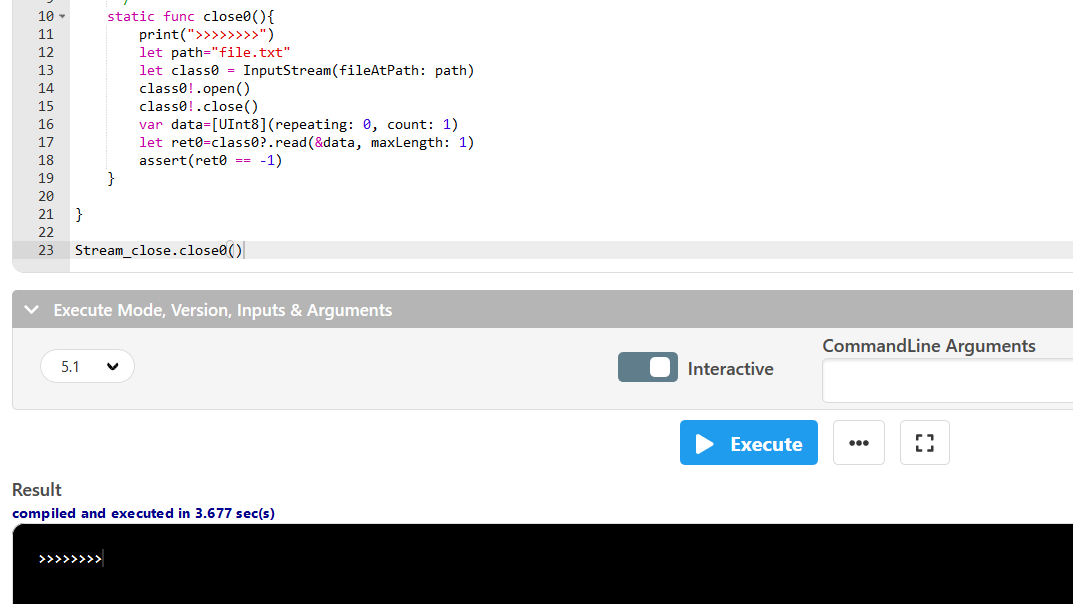
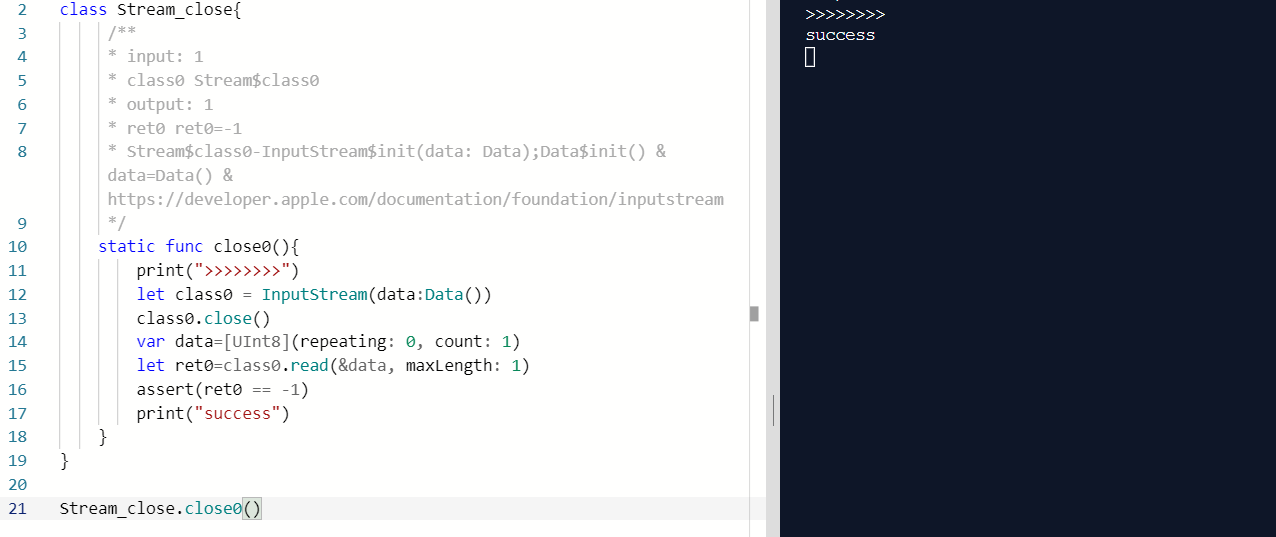
review

diff --git a/MG1933089/swift/NSString_init_String_Any_CVaListPointer__String_write_TextOutputStream.swift b/MG1933089/swift/NSString_init_String_Any_CVaListPointer__String_write_TextOutputStream.swift
@@ -1,19 +1,19 @@
 /***
  * @author: MG1933089 袁新雨
- *  @className: NSString_init_String_Any_CVaListPointer$NSString__String_write_TextOutputStream
+ *  @className: NSString_init_String_Any_CVaListPointer__String_write_TextOutputStream
  *  @apiSignature: NSString$convenience init(format: String, locale: Any?, arguments argList: CVaListPointer) -> NSString;String$func write<Target>(to target: inout Target) where Target : TextOutputStream
  *  @description: Test swift api NSString$init(format: String, locale: Any?, arguments argList: CVaListPointer);String$write<Target>(to target: inout Target) where Target : TextOutputStream
  *  @Map: java.io.PrintStream$public PrintStream format(String format, Object... args)
  */
 import Foundation
-class NSString_init_String_Any_CVaListPointer$NSString__String_write_TextOutputStream{
+class NSString_init_String_Any_CVaListPointer__String_write_TextOutputStream{
     /**
      *input: 4
      *class0 NSString$class0
      *class1 String$class1
      *format format="%.2f"
      *locale Any$locale
-     *arguments arguments=[0.123]
+     *arguments CVaListPointer$arguments
      *target TextOutputStream$target
      *ouput: 1
      *ret0 ret0="0.12"
@@ -35,4 +35,4 @@ class NSString_init_String_Any_CVaListPointer$NSString__String_write_TextOutputS
         print(target) 
     }
 }
-NSString_init_String_Any_CVaListPointer$NSString__String_write_TextOutputStream.init_write0()
+NSString_init_String_Any_CVaListPointer__String_write_TextOutputStream.init_write0()

diff --git a/MG1933089/swift/NSString_init_String_CVaListPointer__String_write_TextOutputStream.swift b/MG1933089/swift/NSString_init_String_CVaListPointer__String_write_TextOutputStream.swift
@@ -1,18 +1,18 @@
 /***
  * @author: MG1933089 袁新雨
- *  @className: NSString_init_format_CVaListPointer$NSString__String_write_TextOutputStream
+ *  @className: NSString_init_String_CVaListPointer__String_write_TextOutputStream
  *  @apiSignature: NSString$convenience init(format: String, arguments argList: CVaListPointer) -> NSString;String$func write<Target>(to target: inout Target) where Target : TextOutputStream
  *  @description: Test swift api SString$init(format: String, arguments argList: CVaListPointer);String$write<Target>(to target: inout Target) where Target : TextOutputStream
  *  @Map: java.io.PrintStream$public PrintStream format(String format, Object... args)
  */
 import Foundation
-class NSString_init_format_CVaListPointer$NSString__String_write_TextOutputStream{
+class NSString_init_String_CVaListPointer__String_write_TextOutputStream{
     /**
      *input : 3
-     *class0 class0$NSString
-     *class1 class1$String
+     *class0 NSString$class0
+     *class1 String$class1
      *format format="%.2f"
-     *arguments arguments=[0.123]
+     *arguments CVaListPointer$arguments
      *target target=""
      *ouput : 1
      *ret0 ret0="0.12"
@@ -33,4 +33,4 @@ class NSString_init_format_CVaListPointer$NSString__String_write_TextOutputStrea
         print(target) 
     }
 }
-NSString_init_format_CVaListPointer$NSString__String_write_TextOutputStream.init_write0()
+NSString_init_String_CVaListPointer__String_write_TextOutputStream.init_write0()

diff --git a/MG1933089/swift/NSString_init_String_Any_CVaListPointer__TextOutputStream_write_String.swift b/MG1933089/swift/NSString_init_String_Any_CVaListPointer__TextOutputStream_write_String.swift
@@ -1,19 +1,19 @@
 /***
  * @author: MG1933089 袁新雨
- *  @className: NSString_init_String_Any_CVaListPointer$NSString__TextOutputStream_write_String
+ *  @className: NSString_init_String_Any_CVaListPointer__TextOutputStream_write_String
  *  @apiSignature: NSString$convenience init(format: String, locale: Any?, arguments argList: CVaListPointer) -> NSString;TextOutputStream$mutating func write(_ string: String)
  *  @description: Test swift api SString$init(format: String, locale: Any?, arguments argList: CVaListPointer);TextOutputStream$write(_ string: String)
  *  @Map: java.io.PrintStream$public PrintStream format(String format, Object... args)
  */
 import Foundation
-class NSString_init_String_Any_CVaListPointer$NSString__TextOutputStream_write_String{
+class NSString_init_String_Any_CVaListPointer__TextOutputStream_write_String{
     /**
      *input : 4
      *class0 NSString$class0
      *class1 TextOutputStream$class1
      *format format="init_write0: %.2f"
      *locale Any$locale
-     *arguments arguments=[0.123]
+     *arguments CVaListPointer$arguments
      *string String$string
      *ouput : 1
      *ret0 ret0="0.12"
@@ -35,4 +35,4 @@ class NSString_init_String_Any_CVaListPointer$NSString__TextOutputStream_write_S
         print(class1) 
     }
 }
-NSString_init_String_Any_CVaListPointer$NSString__TextOutputStream_write_String.init_write0()
+NSString_init_String_Any_CVaListPointer__TextOutputStream_write_String.init_write0()

diff --git a/MG1933089/swift/NSString_init_String_CVaListPointer__TextOutputStream_write_String.swift b/MG1933089/swift/NSString_init_String_CVaListPointer__TextOutputStream_write_String.swift
@@ -1,18 +1,18 @@
 /***
  * @author: MG1933089 袁新雨
- *  @className: NSString_init_format_CVaListPointer$NSString__TextOutputStream_write_String
+ *  @className: NSString_init_String_CVaListPointer__TextOutputStream_write_String
  *  @apiSignature: NSString$convenience init(format: String, arguments argList: CVaListPointer) -> NSString;TextOutputStream$mutating func write(_ string: String)
  *  @description: Test swift api SString$init(format: String, arguments argList: CVaListPointer);TextOutputStream$write(_ string: String)
  *  @Map: java.io.PrintStream$public PrintStream format(String format, Object... args)
  */
 import Foundation
-class NSString_init_format_CVaListPointer$NSString__TextOutputStream_write_String{
+class NSString_init_String_CVaListPointer__TextOutputStream_write_String{
     /**
      *input : 3
      *class0 NSString$class0
      *class1 String$class1
      *format format="%.2f"
-     *arguments arguments=[0.123]
+     *arguments CVaListPointer$arguments
      *target TextOutputStream$target
      *ouput : 1
      *ret0 ret0="0.12"
@@ -33,4 +33,4 @@ class NSString_init_format_CVaListPointer$NSString__TextOutputStream_write_Strin
         print(class1) 
     }
 }
-NSString_init_format_CVaListPointer$NSString__TextOutputStream_write_String.init_write0()
+NSString_init_String_CVaListPointer$NSString__TextOutputStream_write_String.init_write0()

diff --git a/MG1933089/swift/Stream_close.swift b/MG1933089/swift/Stream_close.swift
@@ -12,19 +12,17 @@ class Stream_close{
      * class0 Stream$class0
      * output: 1
      * ret0 ret0=-1
-     * Stream$class0-InputStream$init?(fileAtPath path: String) & String$path="file.txt";Bool$shouldAppend=false & https://developer.apple.com/documentation/foundation/inputstream
+     * Stream$class0-InputStream$init(data: Data);Data$init() & data=Data() & https://developer.apple.com/documentation/foundation/inputstream
      */
     static func close0(){
         print(">>>>>>>>")
-        let path="file.txt"
-        let class0 = InputStream(fileAtPath: path)
-        class0!.open()
-        class0!.close()
+        let class0 = InputStream(data:Data())
+        class0.close()
         var data=[UInt8](repeating: 0, count: 1)
         let ret0=class0?.read(&data, maxLength: 1)
         assert(ret0 == -1)
+        print("success")
     }
-   
 }
 
 Stream_close.close0()

diff --git a/MG1933089/java/InputStream_close.java b/MG1933089/java/InputStream_close.java
@@ -2,7 +2,7 @@ import java.io.*;
 
 /***
  * @author: MG1933089 袁新雨
- *  @className: InputStream_close$void
+ *  @className: InputStream_close
  *  @apiSignature: 	java.io.InputStream$public void close()
  *  @description: Test java api java.io.InputStream$close()
  *  @Map: Stream$func close()
@@ -10,29 +10,22 @@ import java.io.*;
 public class InputStream_close {
     /**
      * input: 0
-     * class0 FileInputStream$class0
+     * class0 InputStream$class0
      * output: 0
-     * ret0 ret0=0
-     * InputStream$class0-File$File(String pathname);InputStream$InputStream(File file) & String$pathname="file.txt" & https://docs.oracle.com/en/java/javase/13/docs/api/java.base/java/io/InputStream.html
+     * InputStream$class0-System$in & & https://docs.oracle.com/en/java/javase/13/docs/api/java.base/java/io/InputStream.html
      */
     public static void close0() {
         System.out.println(">>>>>>>>>>>>");
-        String filename = "file.txt";
-        File f = new File(filename);
+        InputStream class0 = System.in;
         try {
-            InputStream class0 = new FileInputStream(f);
-            try {
-                class0.close();
-                try {
-                    int ret0 = class0.available();
-                } catch (IOException e) {
-                    assert (e != null);
-                    }
-            } catch (IOException e) {
-                }
-        } catch (FileNotFoundException e) {
-            }
+            class0.close();
+        } catch (IOException e) {
+            System.out.println("fail");
+            return;
+        }
+        System.out.println("success");
     }
+
     public static void main(String[] args) {
         InputStream_close.close0();
     }

diff --git a/MG1933089/java/PrintStream_format_String_Object.java b/MG1933089/java/PrintStream_format_String_Object.java
@@ -18,7 +18,7 @@ public class PrintStream_format_String_Object {
      * args args=0.123
      * output: 1
      * ret0 PrintStream$ret0
-     * PrintStream$class0-OutputStream$OutputStream();PrintStream$PrintStream(OutputStream out) & ByteArrayOutputStream$ByteArrayOutputStream() & https://stackoverflow.com/questions/1760654/java-printstream-to-string
+     * PrintStream$class0-ByteArrayOutputStream$ByteArrayOutputStream();PrintStream$PrintStream(OutputStream out) & out=new ByteArrayOutputStream() & https://stackoverflow.com/questions/1760654/java-printstream-to-string
      */
     public static void format0() {
         System.out.println(">>>>>>>>>>>>");
@@ -29,7 +29,7 @@ public class PrintStream_format_String_Object {
         PrintStream ret0 = class0.format(format, args);
         String data = new String(out.toByteArray());
         System.out.println(data);
-        assert (data == "0.12");
+        assert (data.equals("0.12"));
         class0.close();
         ret0.close();
     }

diff --git a/MG1933089/java/String_indexOf_int_int.java b/MG1933089/java/String_indexOf_int_int.java
@@ -27,7 +27,7 @@ public class String_indexOf_int_int {
      * class0 class0="hello"
      * ch ch=101
      * fromIndex fromIndex=0
-     * output: -1
+     * output: 1
      * ret0 ret0=-1
      */
     public  static void indexOf1(){
